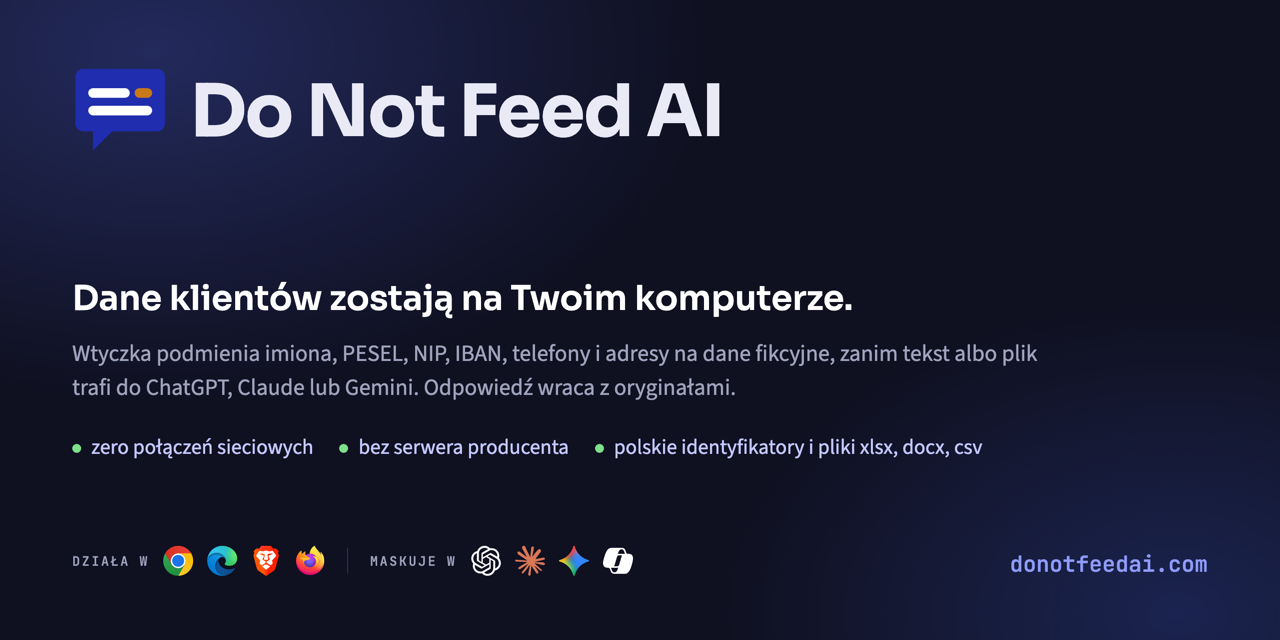
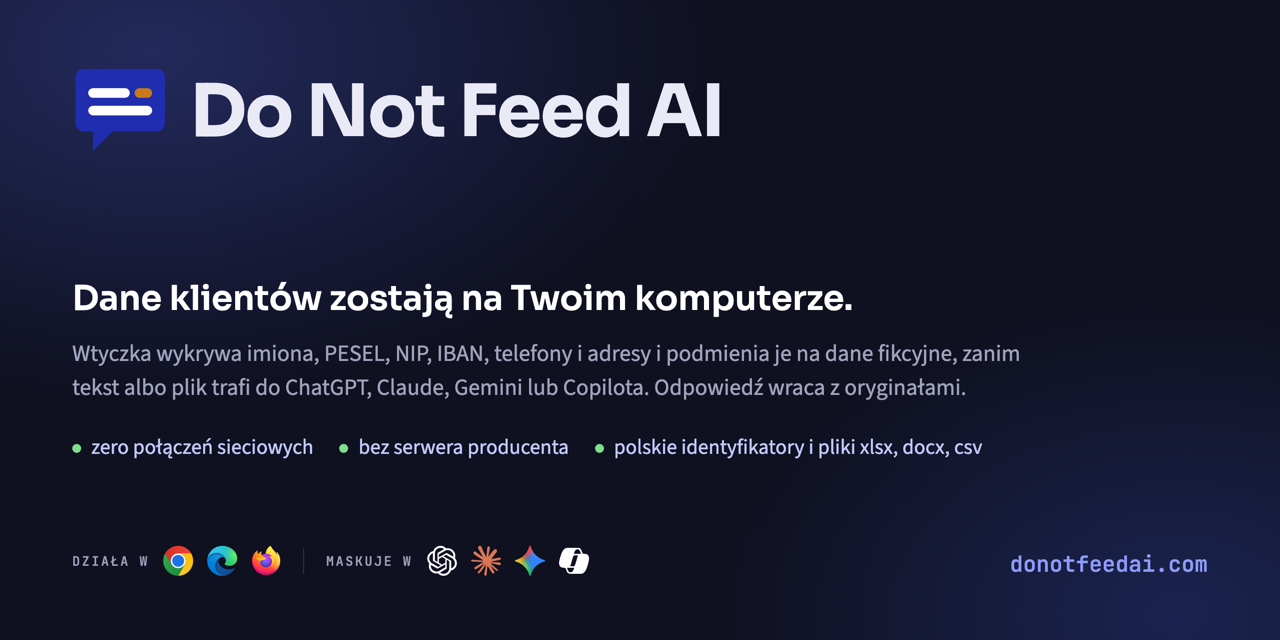
dystrybucja: aktualizacja opisu i instrukcji (wydanie v0.3.38.1)

Changed region(s): [[0.0625, 0.5312, 0.8125, 0.625], [0.1875, 0.8438, 0.5, 0.9062]]

diff --git a/README.en.md b/README.en.md
@@ -2,15 +2,15 @@
 
 [Polski](README.md) · **English**
 
-<img src="assets/social-preview.png" alt="Do Not Feed AI: client data stays on your computer. The extension replaces names, national IDs, bank accounts, phones and addresses with fictional data before your text or file reaches ChatGPT, Claude or Gemini.">
+<img src="assets/social-preview.png" alt="Do Not Feed AI: client data stays on your computer. The extension detects names, national IDs, bank accounts, phones and addresses and replaces them with fictional data before your text or file reaches ChatGPT, Claude, Gemini or Copilot.">
 
-Do Not Feed AI replaces names, national IDs, phone numbers, addresses and files with realistic fictional data
-**before they leave your computer**. The model's reply comes back with the real values restored. Everything is
+Do Not Feed AI detects names, national IDs, phone numbers, addresses and data in files, then replaces them with
+realistic fictional data **before the message leaves your computer**. The model's reply comes back with the real values restored. Everything is
 done by a program on your machine, with no connection to a vendor server - there is no such server.
 
 Do Not Feed AI is a **desktop program** (Windows, macOS) plus a **browser extension**, used together: the program
-detects and replaces the data, the extension hands it what you send to the chat. It works with a licence; the
-trial is a licence with a short expiry date, sent on request ([kontakt@donotfeedai.pl](mailto:kontakt@donotfeedai.pl)).
+detects and replaces the data, the extension hands it what you send to the chat. It works with a licence; a
+trial licence is sent on request ([kontakt@donotfeedai.pl](mailto:kontakt@donotfeedai.pl)).
 
 This repository is **distribution only**: the program installer and the browser extension. The source code is
 not published here. The software is proprietary, all rights reserved; the terms of use are set out in the licence
@@ -57,9 +57,9 @@ says so in the bar in the chat and asks before every send whether to send the me
 
 ## How it works
 
-<img src="assets/how-it-works.svg" width="928" alt="Flow: text and files are masked locally, the AI service receives replacements, and the reply is restored on your machine. Originals never cross the boundary of your computer.">
+<img src="assets/how-it-works.svg" width="928" alt="Flow: text and files are masked locally, the AI service receives replacements for the detected data, and the reply is restored on your machine. The map of originals stays on your computer.">
 
-*Original values never cross the boundary of your computer. The replacement map lives in the program, separately for each chat tab, and is deleted when the tab is closed.*
+*The AI receives replacements for the detected data, and the map of originals stays on your computer: it lives in the program, separately for each chat tab, and is deleted when the tab is closed.*
 
 - **Chat text**: you type as usual and the extension takes over the send - the program detects the data, the extension substitutes it in the box,
   sends the replacements, and restores the originals in the model's reply. What you see on screen is always real.
@@ -146,7 +146,7 @@ Short version (full steps: [INSTALL.en.md](INSTALL.en.md)):
 | who | on request, no commitment | per workstation, working with client data | per company, deployed without clicking |
 | text, files, technical data, reply restoration | yes | yes | yes |
 | custom phrases, manual restore mode | yes | yes | yes |
-| validity | short | per agreement | per agreement |
+| validity | set when we send it | per agreement | per agreement |
 | licence | one file per workstation | one file per workstation | one file per company, via MDM or policy |
 | shared company dictionary (clients, projects, products) | - | - | yes |
 

diff --git a/README.md b/README.md
@@ -2,15 +2,15 @@
 
 **Polski** · [English](README.en.md)
 
-<img src="assets/social-preview.png" alt="Do Not Feed AI: dane klientów zostają na Twoim komputerze. Wtyczka podmienia imiona, PESEL, NIP, IBAN, telefony i adresy na dane fikcyjne, zanim tekst albo plik trafi do ChatGPT, Claude lub Gemini.">
+<img src="assets/social-preview.png" alt="Do Not Feed AI: dane klientów zostają na Twoim komputerze. Wtyczka wykrywa imiona, PESEL, NIP, IBAN, telefony i adresy i podmienia je na dane fikcyjne, zanim tekst albo plik trafi do ChatGPT, Claude, Gemini lub Copilota.">
 
-Do Not Feed AI podmienia imiona, PESEL-e, numery telefonów, adresy i pliki na realistyczne dane fikcyjne,
-**zanim opuszczą Twój komputer**. Odpowiedź modelu wraca już z prawdziwymi wartościami. Wszystko robi program
+Do Not Feed AI wykrywa imiona, PESEL-e, numery telefonów, adresy i dane w plikach, a potem podmienia je na
+realistyczne dane fikcyjne, **zanim wiadomość opuści Twój komputer**. Odpowiedź modelu wraca już z prawdziwymi wartościami. Wszystko robi program
 na Twoim komputerze, bez ani jednego połączenia z naszym serwerem, bo takiego serwera nie ma.
 
 Do Not Feed AI to **program na komputer** (Windows, macOS) i **wtyczka do przeglądarki**, potrzebne razem:
-program wykrywa i podmienia dane, wtyczka przekazuje mu to, co wysyłasz do czatu. Działa z licencją; okres próbny
-to licencja z krótką datą, wysyłana na prośbę ([kontakt@donotfeedai.pl](mailto:kontakt@donotfeedai.pl)).
+program wykrywa i podmienia dane, wtyczka przekazuje mu to, co wysyłasz do czatu. Działa z licencją; licencję próbną
+wysyłamy na prośbę ([kontakt@donotfeedai.pl](mailto:kontakt@donotfeedai.pl)).
 
 To repozytorium służy **tylko do dystrybucji**: instalator programu i wtyczka do przeglądarki.
 Kod źródłowy nie jest tu publikowany. Oprogramowanie jest własnościowe, wszelkie prawa zastrzeżone;
@@ -57,9 +57,9 @@ i przed każdym wysłaniem pyta, czy wysłać wiadomość bez maskowania.
 
 ## Jak to działa
 
-<img src="assets/jak-to-dziala.svg" width="928" alt="Przepływ: tekst i pliki są maskowane lokalnie, do usługi AI trafiają zamienniki, odpowiedź wraca i jest przywracana na komputerze. Oryginały nigdy nie przekraczają granicy komputera.">
+<img src="assets/jak-to-dziala.svg" width="928" alt="Przepływ: tekst i pliki są maskowane lokalnie, do usługi AI trafiają zamienniki wykrytych danych, odpowiedź wraca i jest przywracana na komputerze. Mapa oryginałów zostaje na komputerze.">
 
-*Oryginalne wartości nigdy nie przekraczają granicy komputera. Mapa zamienników jest w programie, osobno dla każdej karty czatu, i znika z jej zamknięciem.*
+*Do AI trafiają zamienniki wykrytych danych, a mapa oryginałów zostaje na Twoim komputerze: w programie, osobno dla każdej karty czatu, i znika z jej zamknięciem.*
 
 - **Tekst w czacie**: piszesz normalnie, a wysyłkę przejmuje wtyczka - program wykrywa dane, wtyczka podmienia je w polu, wysyła zamienniki,
   a w odpowiedzi modelu przywraca oryginały. Z ekranu nie znikasz: dane, które widzisz, są prawdziwe.
@@ -145,7 +145,7 @@ Skrót (pełna wersja: [INSTALACJA.md](INSTALACJA.md)):
 | kto | na prośbę, bez zobowiązań | na stanowisko, praca na danych klientów | na firmę, wdrożenie bez klikania |
 | tekst, pliki, dane techniczne, przywracanie odpowiedzi | tak | tak | tak |
 | własne frazy, tryb ręczny | tak | tak | tak |
-| ważność | krótka | według umowy | według umowy |
+| ważność | ustalana przy wysyłce | według umowy | według umowy |
 | licencja | plik na stanowisko | plik na stanowisko | jeden plik na firmę, przez MDM lub politykę |
 | wspólny słownik firmowy (klienci, projekty, produkty) | - | - | tak |
 

diff --git a/INSTALACJA.md b/INSTALACJA.md
@@ -130,7 +130,7 @@ Wtyczkę usuwa się osobno w `chrome://extensions` (Firefox: `about:addons` → 
 
 ## Licencja
 
-Program działa z licencją Pro albo Business. Okres próbny to licencja z krótką datą ważności - wyślemy ją na
+Program działa z licencją Pro albo Business. Licencję próbną wyślemy na
 prośbę: [kontakt@donotfeedai.pl](mailto:kontakt@donotfeedai.pl). Bez licencji ochrona jest wyłączona.
 Plik licencji (`.lic`) wczytuje się na macOS w ikonie Do Not Feed AI w pasku menu, obok zegara („Wczytaj licencję…”
 albo „Wklej licencję ze schowka”), a na Windows w panelu wtyczki („Wczytaj plik licencji”). Zawsze działa też

diff --git a/INSTALL.en.md b/INSTALL.en.md
@@ -129,7 +129,7 @@ The extension is removed separately in `chrome://extensions` (Firefox: `about:ad
 
 ## Licence
 
-The program works with a Pro or Business licence. The trial is a licence with a short expiry date - we send it on
+The program works with a Pro or Business licence. We send a trial licence on
 request: [kontakt@donotfeedai.pl](mailto:kontakt@donotfeedai.pl). Without a licence protection is off.
 A licence file (`.lic`) is loaded on macOS in the Do Not Feed AI icon in the menu bar, next to the clock ("Load
 license…" or "Paste license from clipboard"), and on Windows in the extension panel ("Load a licence file").
